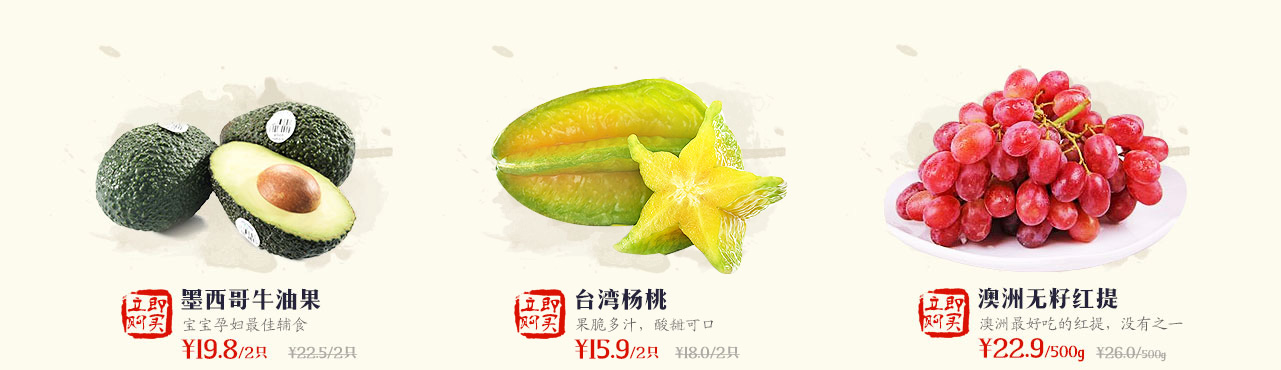
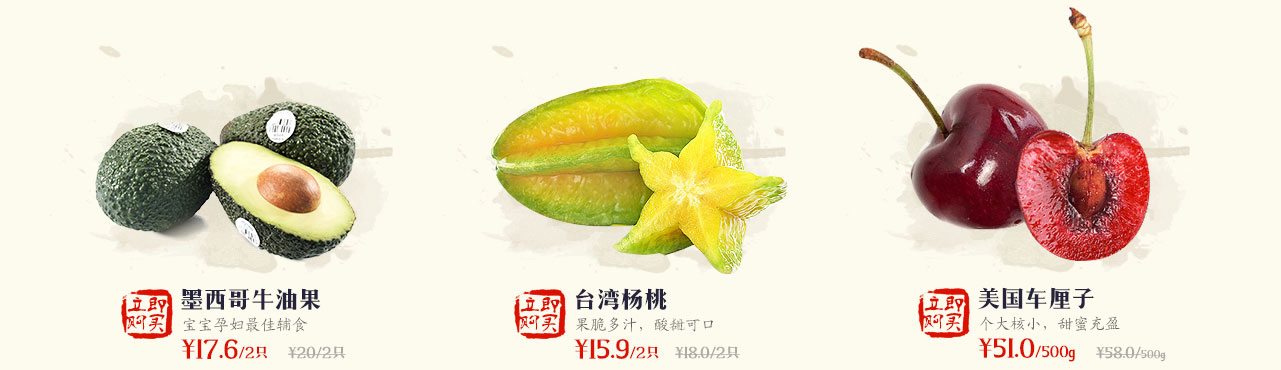
会员日水果专题换图

diff --git a/custom/b2c/view/wap/active/vipday_fruit/index.html b/custom/b2c/view/wap/active/vipday_fruit/index.html
@@ -37,26 +37,23 @@
 <div>
 <div class="left"><a href="https://open.weixin.qq.com/connect/oauth2/authorize?appid=wx8a9533e11b69d7a2&redirect_uri=http%3A%2F%2Fwww.pzfresh.com%2Findex.php%2Fwap%2Fproduct-1678.html&response_type=code&scope=snsapi_base&state=573174#wechat_redirect
 "><img src="<{$IMG_PZFRESH}>/public/app/b2c/statics/active/vipday_fruit/images/me_fruit_wchat_18.jpg"></a> </div>
-<div class="left"><a href="https://open.weixin.qq.com/connect/oauth2/authorize?appid=wx8a9533e11b69d7a2&redirect_uri=http%3A%2F%2Fwww.pzfresh.com%2Findex.php%2Fwap%2Fproduct-1999.html&response_type=code&scope=snsapi_base&state=573174#wechat_redirect
-"><img src="<{$IMG_PZFRESH}>/public/app/b2c/statics/active/vipday_fruit/images/me_fruit_wchat_19.jpg"></a> </div>
+<div class="left"><a href="https://open.weixin.qq.com/connect/oauth2/authorize?appid=wx8a9533e11b69d7a2&redirect_uri=http%3A%2F%2Fwww.pzfresh.com%2Findex.php%2Fwap%2Fproduct-2363.html&response_type=code&scope=snsapi_base&state=573174#wechat_redirect"><img src="<{$IMG_PZFRESH}>/public/app/b2c/statics/active/vipday_fruit/images/me_fruit_wchat_19.jpg"></a> </div>
 </div>
 <div>
-<div class="left"><a href="https://open.weixin.qq.com/connect/oauth2/authorize?appid=wx8a9533e11b69d7a2&redirect_uri=http%3A%2F%2Fwww.pzfresh.com%2Findex.php%2Fwap%2Fproduct-2001.html&response_type=code&scope=snsapi_base&state=573174#wechat_redirect
-"><img src="<{$IMG_PZFRESH}>/public/app/b2c/statics/active/vipday_fruit/images/me_fruit_wchat_20.jpg"></a> </div>
-<div class="left"><a href="https://open.weixin.qq.com/connect/oauth2/authorize?appid=wx8a9533e11b69d7a2&redirect_uri=http%3A%2F%2Fwww.pzfresh.com%2Findex.php%2Fwap%2Fproduct-957.html&response_type=code&scope=snsapi_base&state=573174#wechat_redirect
-"><img src="<{$IMG_PZFRESH}>/public/app/b2c/statics/active/vipday_fruit/images/me_fruit_wchat_21.jpg"></a> </div>
+<div class="left"><a href="https://open.weixin.qq.com/connect/oauth2/authorize?appid=wx8a9533e11b69d7a2&redirect_uri=http%3A%2F%2Fwww.pzfresh.com%2Findex.php%2Fwap%2Fproduct-2381.html&response_type=code&scope=snsapi_base&state=573174#wechat_redirect"><img src="<{$IMG_PZFRESH}>/public/app/b2c/statics/active/vipday_fruit/images/me_fruit_wchat_20.jpg"></a> </div>
+<div class="left"><a href="https://open.weixin.qq.com/connect/oauth2/authorize?appid=wx8a9533e11b69d7a2&redirect_uri=http%3A%2F%2Fwww.pzfresh.com%2Findex.php%2Fwap%2Fproduct-957.html&response_type=code&scope=snsapi_base&state=573174#wechat_redirect"><img src="<{$IMG_PZFRESH}>/public/app/b2c/statics/active/vipday_fruit/images/me_fruit_wchat_21.jpg"></a> </div>
 </div>
 <div>
-<div class="left"><a href="https://open.weixin.qq.com/connect/oauth2/authorize?appid=wx8a9533e11b69d7a2&redirect_uri=http%3A%2F%2Fwww.pzfresh.com%2Findex.php%2Fwap%2Fproduct-1910.html&response_type=code&scope=snsapi_base&state=573174#wechat_redirect
-"><img src="<{$IMG_PZFRESH}>/public/app/b2c/statics/active/vipday_fruit/images/me_fruit_wchat_22.jpg"></a> </div>
-<div class="left"><a href="https://open.weixin.qq.com/connect/oauth2/authorize?appid=wx8a9533e11b69d7a2&redirect_uri=http%3A%2F%2Fwww.pzfresh.com%2Findex.php%2Fwap%2Fproduct-1523.html&response_type=code&scope=snsapi_base&state=573174#wechat_redirect
-"><img src="<{$IMG_PZFRESH}>/public/app/b2c/statics/active/vipday_fruit/images/me_fruit_wchat_23.jpg"></a> </div>
+<div class="left"><a href="https://open.weixin.qq.com/connect/oauth2/authorize?appid=wx8a9533e11b69d7a2&redirect_uri=http%3A%2F%2Fwww.pzfresh.com%2Findex.php%2Fwap%2Fproduct-2359.html&response_type=code&scope=snsapi_base&state=573174#wechat_redirect"><img src="<{$IMG_PZFRESH}>/public/app/b2c/statics/active/vipday_fruit/images/me_fruit_wchat_22.jpg"></a> </div>
+<div class="left"><a href="https://open.weixin.qq.com/connect/oauth2/authorize?appid=wx8a9533e11b69d7a2&redirect_uri=http%3A%2F%2Fwww.pzfresh.com%2Findex.php%2Fwap%2Fproduct-1523.html&response_type=code&scope=snsapi_base&state=573174#wechat_redirect"><img src="<{$IMG_PZFRESH}>/public/app/b2c/statics/active/vipday_fruit/images/me_fruit_wchat_23.jpg"></a> </div>
 </div>
 <div>
-<div class="left"><a href="https://open.weixin.qq.com/connect/oauth2/authorize?appid=wx8a9533e11b69d7a2&redirect_uri=http%3A%2F%2Fwww.pzfresh.com%2Findex.php%2Fwap%2Fproduct-1917.html&response_type=code&scope=snsapi_base&state=573174#wechat_redirect
-"><img src="<{$IMG_PZFRESH}>/public/app/b2c/statics/active/vipday_fruit/images/me_fruit_wchat_24.jpg"></a> </div>
-<div class="left"><a href="https://open.weixin.qq.com/connect/oauth2/authorize?appid=wx8a9533e11b69d7a2&redirect_uri=http%3A%2F%2Fwww.pzfresh.com%2Findex.php%2Fwap%2Fproduct-952.html&response_type=code&scope=snsapi_base&state=573174#wechat_redirect
-"><img src="<{$IMG_PZFRESH}>/public/app/b2c/statics/active/vipday_fruit/images/me_fruit_wchat_25.jpg"></a> </div>
+<div class="left"><a href="https://open.weixin.qq.com/connect/oauth2/authorize?appid=wx8a9533e11b69d7a2&redirect_uri=http%3A%2F%2Fwww.pzfresh.com%2Findex.php%2Fwap%2Fproduct-2266.html&response_type=code&scope=snsapi_base&state=573174#wechat_redirect"><img src="<{$IMG_PZFRESH}>/public/app/b2c/statics/active/vipday_fruit/images/me_fruit_wchat_24.jpg"></a> </div>
+<div class="left"><a href="https://open.weixin.qq.com/connect/oauth2/authorize?appid=wx8a9533e11b69d7a2&redirect_uri=http%3A%2F%2Fwww.pzfresh.com%2Findex.php%2Fwap%2Fproduct-952.html&response_type=code&scope=snsapi_base&state=573174#wechat_redirect"><img src="<{$IMG_PZFRESH}>/public/app/b2c/statics/active/vipday_fruit/images/me_fruit_wchat_25.jpg"></a> </div>
+</div>
+<div>
+<div class="left"><a href="https://open.weixin.qq.com/connect/oauth2/authorize?appid=wx8a9533e11b69d7a2&redirect_uri=http%3A%2F%2Fwww.pzfresh.com%2Findex.php%2Fwap%2Fproduct-952.html&response_type=code&scope=snsapi_base&state=573174#wechat_redirect"><img src="<{$IMG_PZFRESH}>/public/app/b2c/statics/active/vipday_fruit/images/me_fruit_wchat_33.jpg"></a> </div>
+<div class="left"><a href="https://open.weixin.qq.com/connect/oauth2/authorize?appid=wx8a9533e11b69d7a2&redirect_uri=http%3A%2F%2Fwww.pzfresh.com%2Findex.php%2Fwap%2Fproduct-2369.html&response_type=code&scope=snsapi_base&state=573174#wechat_redirect"><img src="<{$IMG_PZFRESH}>/public/app/b2c/statics/active/vipday_fruit/images/me_fruit_wchat_34.jpg"></a> </div>
 </div>
 <div><a href="http://www.pzfresh.com/wap/gallery-180.html"><img src="<{$IMG_PZFRESH}>/public/app/b2c/statics/active/vipday_fruit/images/me_fruit_wchat_26.jpg"></a> </div>
 <div><a href="https://open.weixin.qq.com/connect/oauth2/authorize?appid=wx8a9533e11b69d7a2&redirect_uri=http%3A%2F%2Fwww.pzfresh.com%2Findex.php%2Fwap%2Fproduct-1996.html&response_type=code&scope=snsapi_base&state=573174#wechat_redirect

diff --git a/custom/b2c/view/site/active/vipday_fruit/index.html b/custom/b2c/view/site/active/vipday_fruit/index.html
@@ -60,21 +60,28 @@
   <div style=" width:1279px; height:380px; margin:0 auto;">
     <a href="http://www.pzfresh.com/product-1742.html" style=" width:430px; height:380px; display:block; float:left"></a>
 	<a href="http://www.pzfresh.com/product-1678.html" style=" width:400px; height:380px; display:block; float:left"></a>
-	<a href="http://www.pzfresh.com/product-1999.html" style=" width:430px; height:380px; display:block; float:left"></a>
+	<a href="http://www.pzfresh.com/product-2363.html" style=" width:430px; height:380px; display:block; float:left"></a>
   </div>
 </div>
 <div style="width:100%; height:399px;min-width:1279px; background: url(<{$IMG_PZFRESH}>/public/app/b2c/statics/active/vipday_fruit/images/me_fruit_pc_19.jpg) center no-repeat">
   <div style=" width:1279px; height:399px; margin:0 auto;">
-    <a href="http://www.pzfresh.com/product-2001.html" style=" width:430px; height:399px; display:block; float:left"></a>
+    <a href="http://www.pzfresh.com/product-2381.html" style=" width:430px; height:399px; display:block; float:left"></a>
 	<a href="http://www.pzfresh.com/product-957.html" style=" width:400px; height:399px; display:block; float:left"></a>
-	<a href="http://www.pzfresh.com/product-1910.html" style=" width:430px; height:399px; display:block; float:left"></a>
+	<a href="http://www.pzfresh.com/product-2359.html" style=" width:430px; height:399px; display:block; float:left"></a>
   </div>
 </div>
 <div style="width:100%; height:429px;min-width:1279px; background: url(<{$IMG_PZFRESH}>/public/app/b2c/statics/active/vipday_fruit/images/me_fruit_pc_20.jpg) center no-repeat">
   <div style=" width:1279px; height:429px; margin:0 auto;">
     <a href="http://www.pzfresh.com/product-1523.html" style=" width:430px; height:429px; display:block; float:left"></a>
-	<a href="http://www.pzfresh.com/product-1917.html" style=" width:400px; height:429px; display:block; float:left"></a>
+	<a href="http://www.pzfresh.com/product-2266.html" style=" width:400px; height:429px; display:block; float:left"></a>
 	<a href="http://www.pzfresh.com/product-952.html" style=" width:430px; height:429px; display:block; float:left"></a>
+  </div>
+</div>
+<div style="width:100%; height:429px;min-width:1279px; background: url(<{$IMG_PZFRESH}>/public/app/b2c/statics/active/vipday_fruit/images/me_fruit_pc_27.jpg) center no-repeat">
+  <div style=" width:1279px; height:429px; margin:0 auto;">
+    <a href="http://www.pzfresh.com/product-2339.html" style=" width:430px; height:429px; display:block; float:left"></a>
+	<a href="http://www.pzfresh.com/product-2002.html" style=" width:400px; height:429px; display:block; float:left"></a>
+	<a href="http://www.pzfresh.com/product-2369.html" style=" width:430px; height:429px; display:block; float:left"></a>
   </div>
 </div>
 <div style="width:100%; height:160px;min-width:1279px; margin-top:10px; background: url(<{$IMG_PZFRESH}>/public/app/b2c/statics/active/vipday_fruit/images/me_fruit_pc_21.jpg) center no-repeat">
